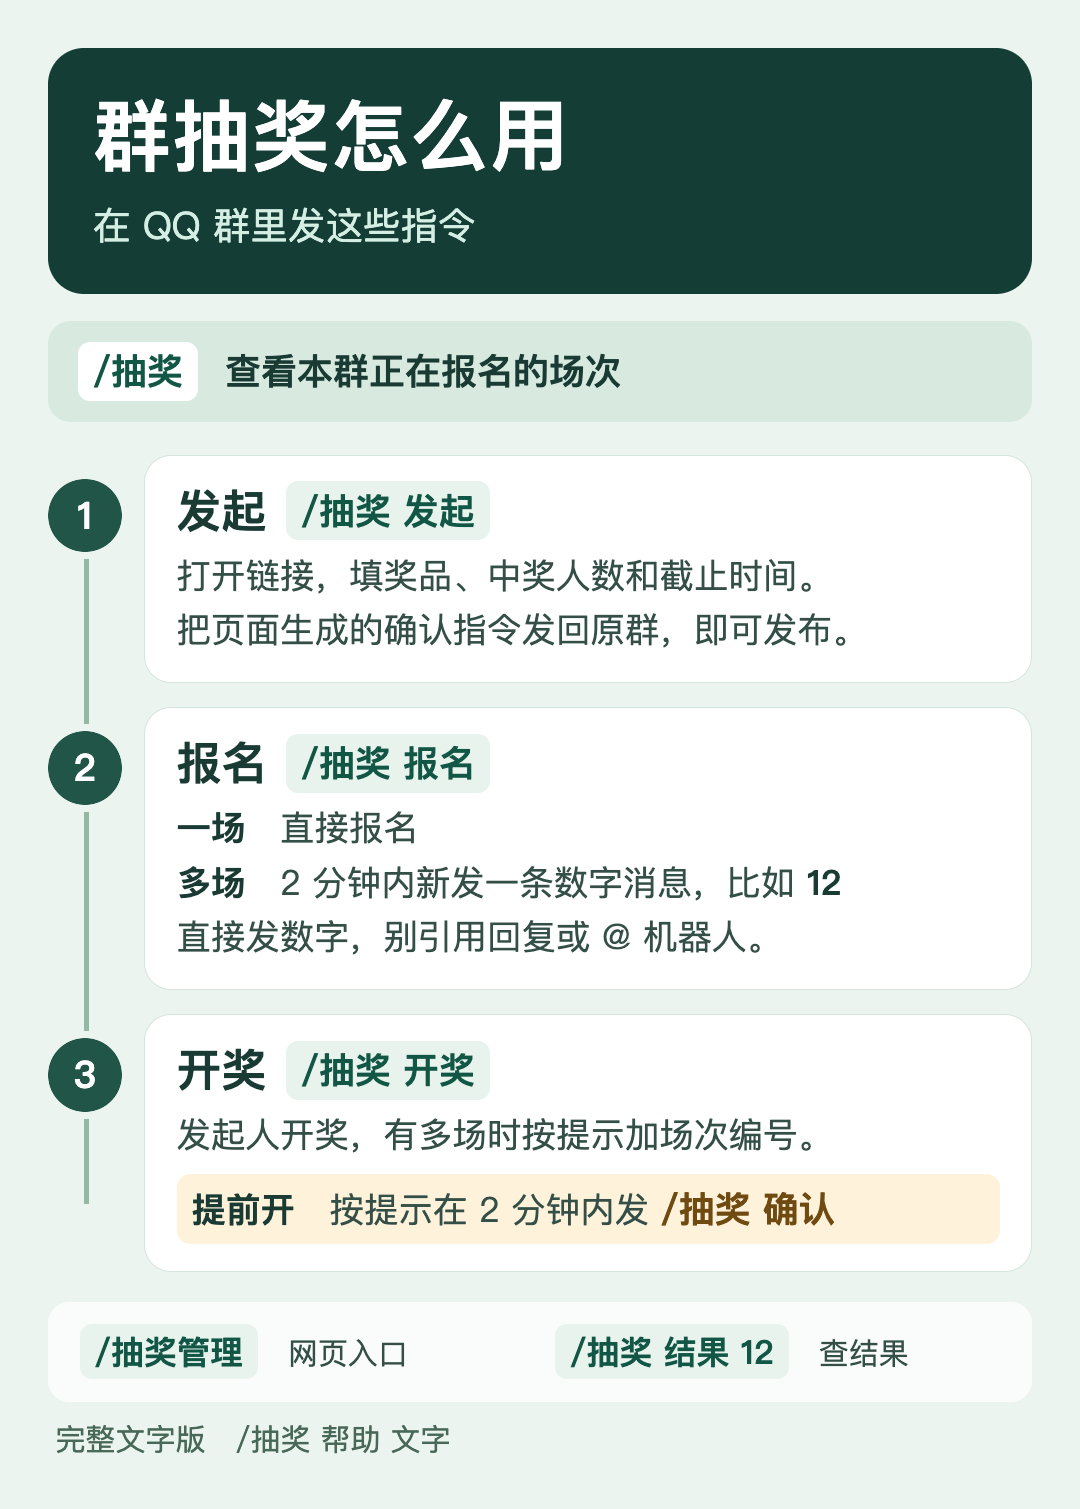
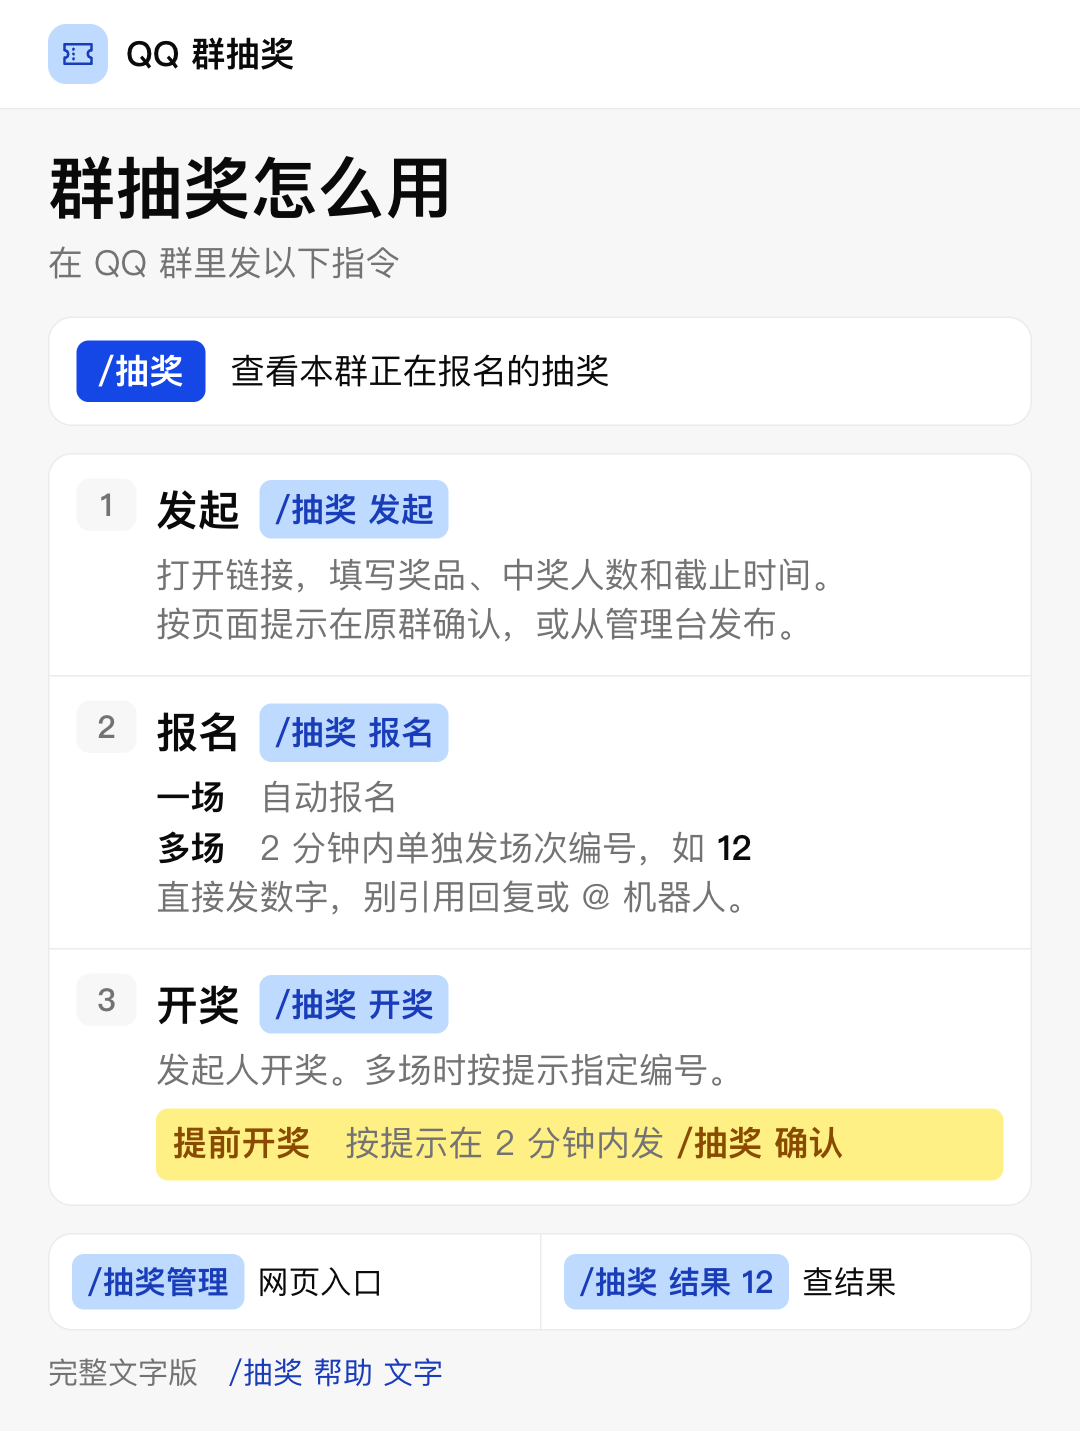
style: match QQ raffle help card to the BoardUI dashboard

diff --git a/plugins/astrbot_plugin_qing_chat/features/raffle/assets/help.html b/plugins/astrbot_plugin_qing_chat/features/raffle/assets/help.html
@@ -2,69 +2,86 @@
 <html lang="zh-CN">
 <meta charset="utf-8">
 <title>群抽奖怎么用</title>
+<link rel="stylesheet" href="raffle.css">
 <style>
-  * { box-sizing: border-box; }
-  :root { font-family: "PingFang SC", "Source Han Sans SC", "Microsoft YaHei", sans-serif; color: #193b34; background: #ecf4ef; }
-  body { margin: 0; width: 720px; padding: 32px; }
-  h1, h2, p { margin: 0; }
-  .hero { background: #143e35; padding: 28px 30px; border-radius: 24px; color: #fff; }
-  .hero h1 { font-size: 52px; letter-spacing: 1px; line-height: 1.2; }
-  .hero p { color: #d5eee4; margin-top: 10px; font-size: 25px; }
-  .current { display: flex; align-items: center; gap: 18px; background: #d8eadf; border-radius: 15px; padding: 14px 20px; margin: 18px 0 22px; font-size: 24px; font-weight: 600; }
-  code { display: inline-block; font-family: inherit; font-weight: 700; white-space: nowrap; background: #e9f3ee; color: #125745; border-radius: 8px; padding: 3px 10px; }
-  .current code { background: #fff; }
-  .steps { position: relative; display: grid; gap: 16px; }
-  .steps::before { content: ""; position: absolute; left: 24px; top: 27px; bottom: 45px; width: 3px; background: #93b9a4; }
-  .step { position: relative; display: grid; grid-template-columns: 49px 1fr; align-items: start; gap: 15px; }
-  .num { margin-top: 16px; display: grid; place-items: center; width: 49px; height: 49px; border-radius: 50%; background: #205548; color: white; font-size: 25px; font-weight: 700; outline: 5px solid #ecf4ef; }
-  .card { border: 1px solid #d6e5dc; border-radius: 18px; background: #fff; padding: 17px 21px 18px; }
-  .top { display: flex; align-items: center; gap: 13px; margin-bottom: 7px; }
-  h2 { font-size: 30px; line-height: 1.2; }
-  .top code, .early code { font-size: 24px; }
-  .card p { font-size: 23px; line-height: 1.45; color: #344f47; }
-  .card p + p { margin-top: 3px; }
-  .card b { color: #193b34; }
-  .early { background: #fff2db; border-radius: 9px; padding: 6px 10px; margin-top: 9px !important; }
-  .early code { background: transparent; padding: 0; color: #6f4a11; }
-  .more { margin-top: 20px; background: #f9fcfa; border-radius: 14px; padding: 11px 15px; display: grid; grid-template-columns: 1fr 1fr; gap: 8px; }
-  .more div { padding: 4px 6px; font-size: 20px; color: #344f47; }
-  .more code { font-size: 22px; }
-  .text { margin-top: 11px; color: #496958; padding-left: 5px; font-size: 20px; }
+  body { width: 720px; font-family: "PingFang SC", "Source Han Sans SC", "Microsoft YaHei", sans-serif; }
+  .help-brand { display: flex; align-items: center; gap: 12px; padding: 16px 32px; border-bottom: 1px solid var(--dashboard-line); background: var(--dashboard-surface); font-size: 23px; font-weight: 700; }
+  .help-brand .brand-icon { width: 40px; height: 40px; border-radius: 12px; }
+  .help-brand svg { width: 24px; height: 24px; }
+  .help-main { padding: 25px 32px 24px; }
+  .help-heading { margin-bottom: 19px; }
+  .help-heading h1 { font-size: 45px; line-height: 1.22; }
+  .help-heading p { margin-top: 5px; color: var(--color-text-secondary); font-size: 23px; }
+  .help-current { padding: 15px 18px; display: flex; align-items: center; gap: 17px; margin-bottom: 18px; font-size: 23px; }
+  .help-command, .help-primary { display: inline-block; padding: 3px 10px; border-radius: 8px; white-space: nowrap; font: inherit; font-weight: 650; }
+  .help-command { background: var(--color-status-blue-background); color: var(--color-status-blue-text); }
+  .help-primary { padding-inline: 14px; background: var(--color-accent-700); color: white; }
+  .help-steps { list-style: none; }
+  .help-step { display: grid; grid-template-columns: 40px minmax(0, 1fr); gap: 13px; padding: 16px 18px; }
+  .help-step + .help-step { border-top: 1px solid var(--dashboard-line); }
+  .help-number { display: grid; place-items: center; align-self: start; min-height: 35px; border-radius: 9px; background: var(--color-background-secondary-default); color: var(--color-text-secondary); font-size: 21px; font-weight: 650; }
+  .help-step-heading { display: flex; align-items: center; gap: 13px; margin: 0 0 6px; font-size: 22px; }
+  .help-step h2 { font-size: 28px; }
+  .help-step p, .help-early { color: var(--color-text-secondary); font-size: 23px; line-height: 1.46; }
+  .help-step b { color: var(--color-text-primary); font-weight: 650; }
+  .help-early { margin-top: 9px; padding: 7px 11px; border-radius: 8px; background: var(--color-status-yellow-background); }
+  .help-early b { color: var(--color-status-yellow-text); }
+  .help-links { display: grid; grid-template-columns: 1fr 1fr; margin-top: 18px; font-size: 21px; }
+  .help-links div { display: flex; flex-wrap: wrap; align-items: center; gap: 5px 9px; padding: 13px 15px; }
+  .help-links div + div { border-inline-start: 1px solid var(--dashboard-line); }
+  .help-text { margin-top: 13px; font-size: 20px; color: var(--color-text-secondary); }
+  .help-text code { font: inherit; color: var(--color-status-blue-text); }
 </style>
-<main>
-  <header class="hero"><h1>群抽奖怎么用</h1><p>在 QQ 群里发这些指令</p></header>
-  <section class="current"><code>/抽奖</code><span>查看本群正在报名的场次</span></section>
-  <section class="steps">
-    <article class="step">
-      <span class="num">1</span>
-      <div class="card">
-        <div class="top"><h2>发起</h2><code>/抽奖 发起</code></div>
-        <p>打开链接，填奖品、中奖人数和截止时间。</p>
-        <p>把页面生成的确认指令发回原群，即可发布。</p>
-      </div>
-    </article>
-    <article class="step">
-      <span class="num">2</span>
-      <div class="card">
-        <div class="top"><h2>报名</h2><code>/抽奖 报名</code></div>
-        <p><b>一场</b>　直接报名</p>
-        <p><b>多场</b>　2 分钟内新发一条数字消息，比如 <b>12</b></p>
-        <p>直接发数字，别引用回复或 @ 机器人。</p>
-      </div>
-    </article>
-    <article class="step">
-      <span class="num">3</span>
-      <div class="card">
-        <div class="top"><h2>开奖</h2><code>/抽奖 开奖</code></div>
-        <p>发起人开奖，有多场时按提示加场次编号。</p>
-        <p class="early"><b>提前开</b>　按提示在 2 分钟内发 <code>/抽奖 确认</code></p>
-      </div>
-    </article>
-  </section>
-  <section class="more">
-    <div><code>/抽奖管理</code>　网页入口</div>
-    <div><code>/抽奖 结果 12</code>　查结果</div>
-  </section>
-  <p class="text">完整文字版　/抽奖 帮助 文字</p>
-</main>
+<body>
+  <header class="help-brand">
+    <span class="brand-icon" aria-hidden="true">
+      <svg viewBox="0 0 24 24" fill="none" stroke="currentColor" stroke-width="1.8" stroke-linecap="round" stroke-linejoin="round">
+        <path d="M3 5.5h18v4a2.5 2.5 0 0 0 0 5v4H3v-4a2.5 2.5 0 0 0 0-5zM9 8.5v.5m0 2.75v.5m0 2.75v.5" />
+      </svg>
+    </span>
+    QQ 群抽奖
+  </header>
+  <main class="help-main">
+    <header class="help-heading">
+      <h1>群抽奖怎么用</h1>
+      <p>在 QQ 群里发以下指令</p>
+    </header>
+    <section class="surface help-current">
+      <code class="help-primary">/抽奖</code>
+      <span>查看本群正在报名的抽奖</span>
+    </section>
+    <ol class="surface help-steps">
+      <li class="help-step">
+        <span class="help-number" aria-hidden="true">1</span>
+        <div>
+          <div class="help-step-heading"><h2>发起</h2><code class="help-command">/抽奖 发起</code></div>
+          <p>打开链接，填写奖品、中奖人数和截止时间。</p>
+          <p>按页面提示在原群确认，或从管理台发布。</p>
+        </div>
+      </li>
+      <li class="help-step">
+        <span class="help-number" aria-hidden="true">2</span>
+        <div>
+          <div class="help-step-heading"><h2>报名</h2><code class="help-command">/抽奖 报名</code></div>
+          <p><b>一场</b>　自动报名</p>
+          <p><b>多场</b>　2 分钟内单独发场次编号，如 <b>12</b></p>
+          <p>直接发数字，别引用回复或 @ 机器人。</p>
+        </div>
+      </li>
+      <li class="help-step">
+        <span class="help-number" aria-hidden="true">3</span>
+        <div>
+          <div class="help-step-heading"><h2>开奖</h2><code class="help-command">/抽奖 开奖</code></div>
+          <p>发起人开奖。多场时按提示指定编号。</p>
+          <div class="help-early"><b>提前开奖</b>　按提示在 2 分钟内发 <b>/抽奖 确认</b></div>
+        </div>
+      </li>
+    </ol>
+    <section class="surface help-links" aria-label="查询与管理">
+      <div><code class="help-command">/抽奖管理</code> 网页入口</div>
+      <div><code class="help-command">/抽奖 结果 12</code> 查结果</div>
+    </section>
+    <p class="help-text">完整文字版　<code>/抽奖 帮助 文字</code></p>
+  </main>
+</body>
 </html>

diff --git a/plugins/astrbot_plugin_qing_chat/main.py b/plugins/astrbot_plugin_qing_chat/main.py
@@ -34,7 +34,7 @@ LEGACY_IDS = {
 TOOL_NAME = "astrbot_generate_image"
 
 
-@register("astrbot_plugin_qing_chat", "qingyi", "对话管理", "1.8.0")
+@register("astrbot_plugin_qing_chat", "qingyi", "对话管理", "1.8.1")
 class Main(Star):
     def __init__(self, context: Context, config: AstrBotConfig):
         super().__init__(context, config)
